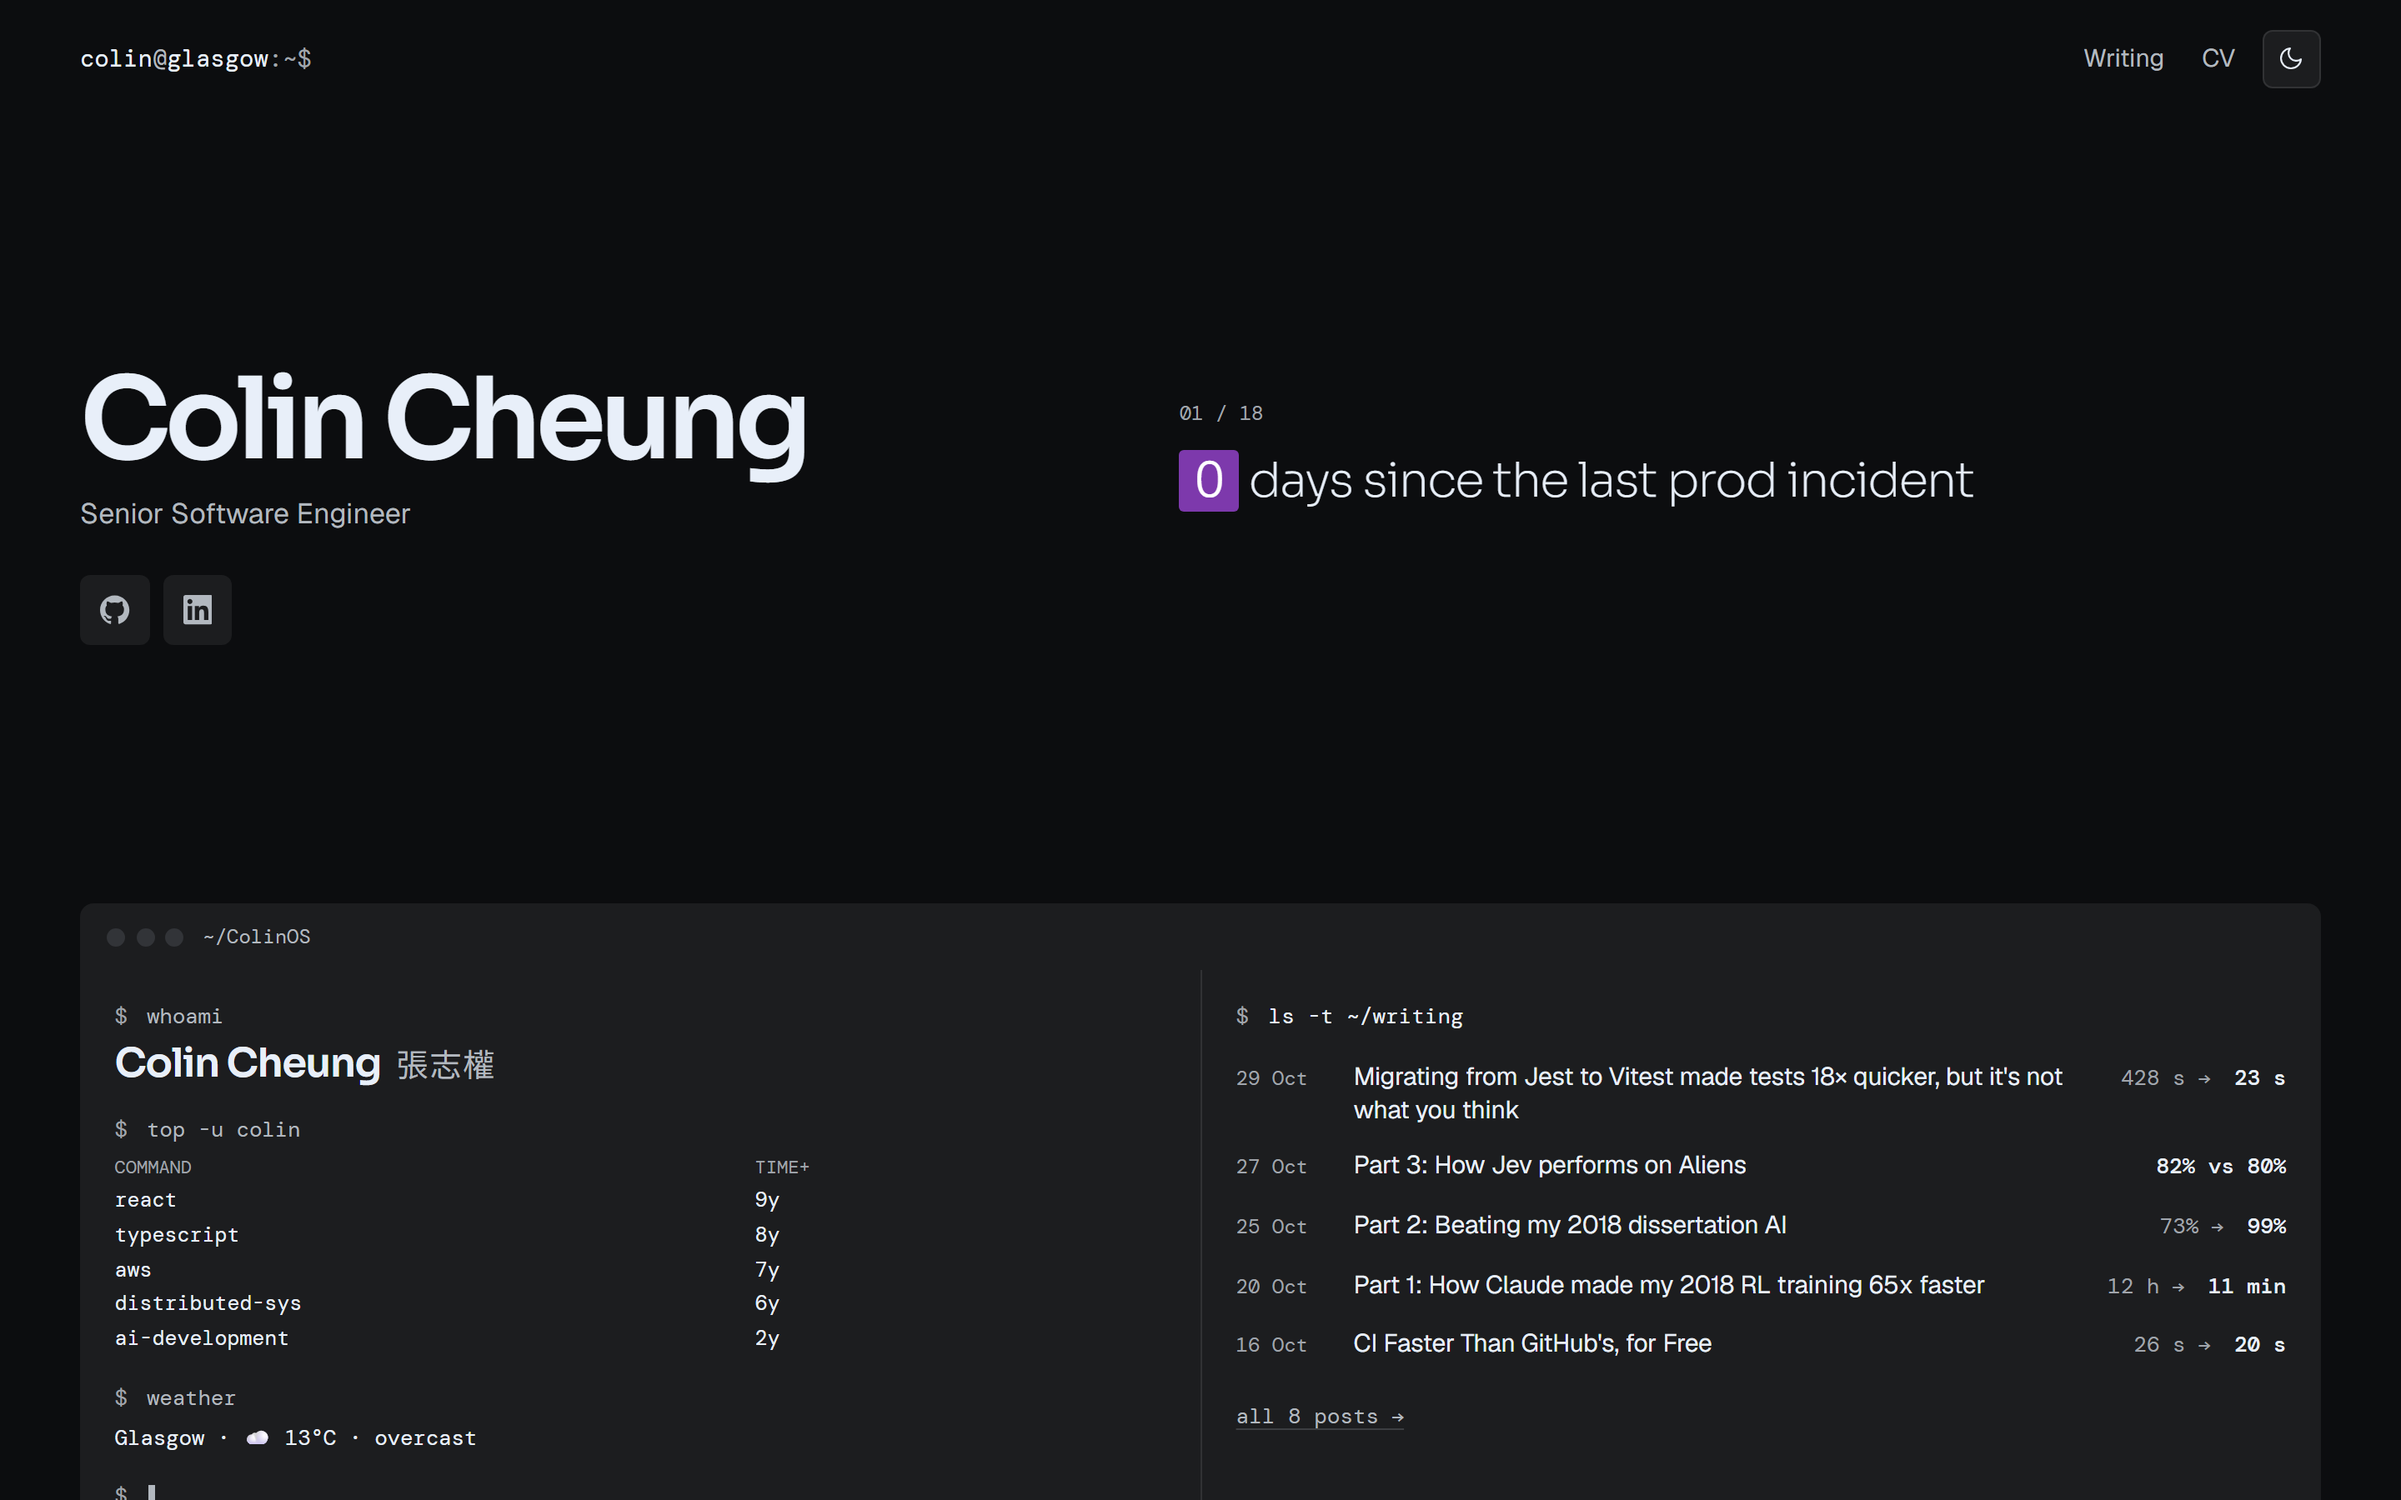
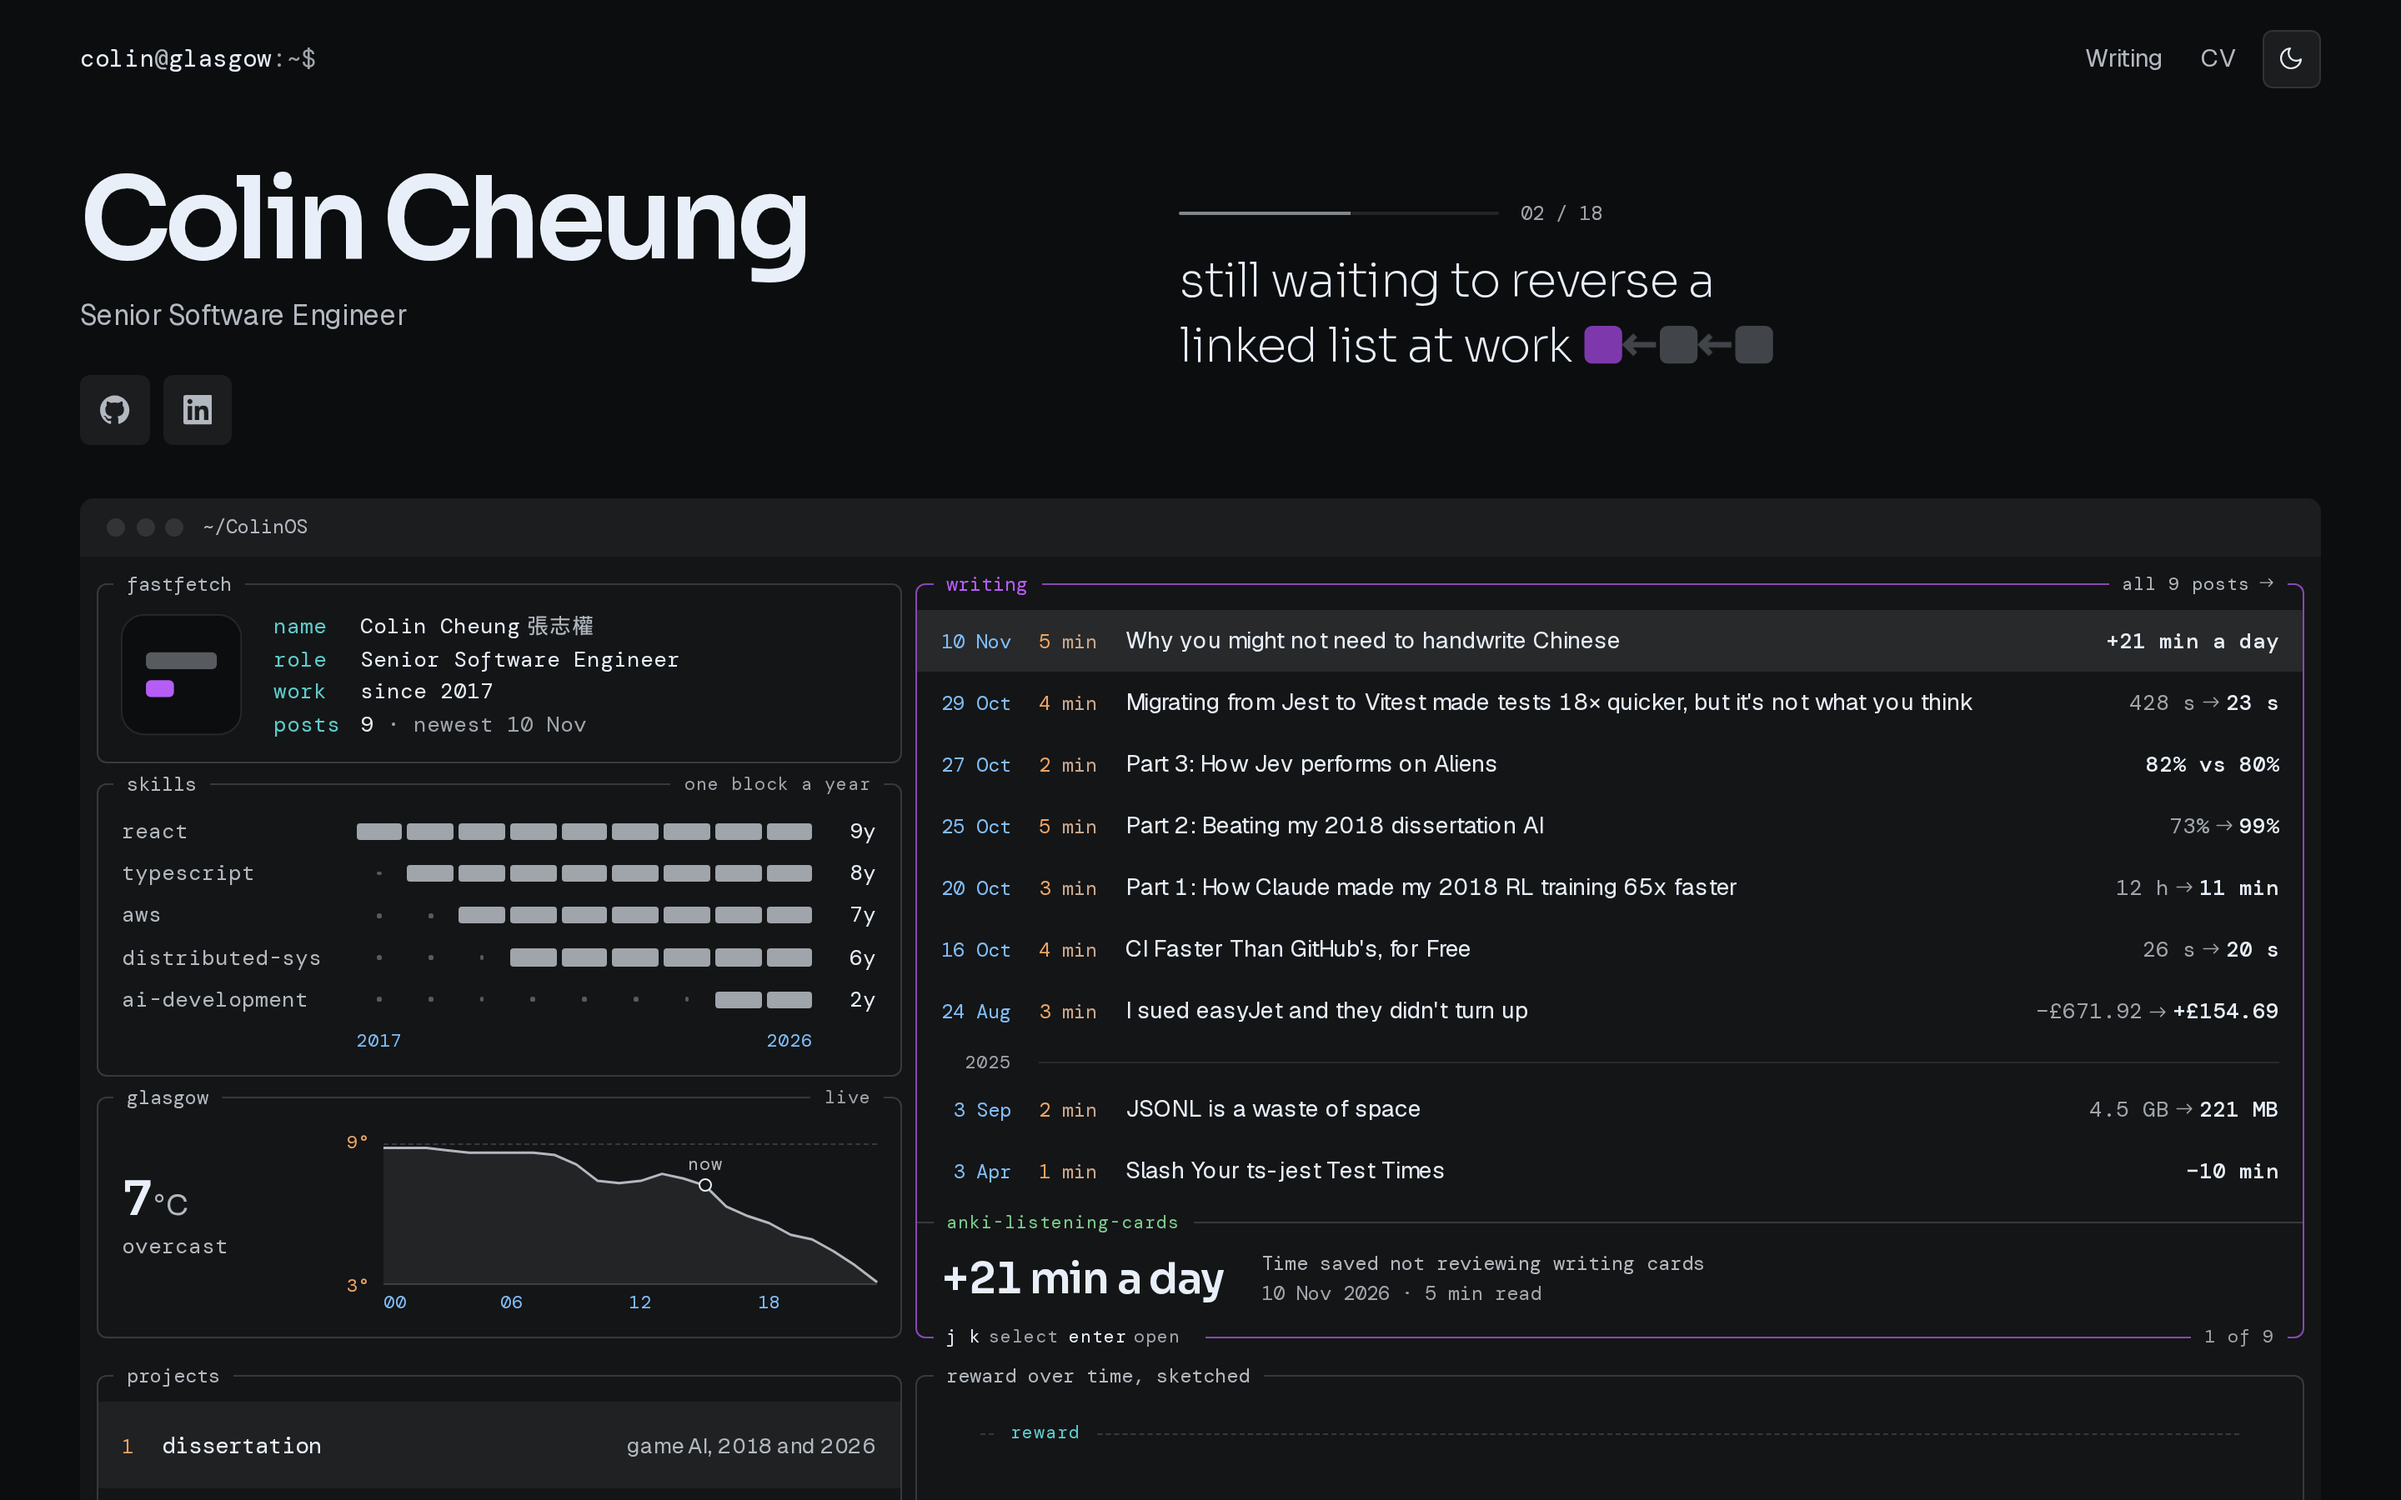
Cantonese tones 2 and 5 rise from where Wikipedia puts them; README shows the one-window home page

diff --git a/src/components/home/window/tones.ts b/src/components/home/window/tones.ts
@@ -28,12 +28,14 @@ const MANDARIN: Record<number, number[]> = {
   3: [2, 1, 4],
   4: [5, 1],
 };
+// Chao's tone letters as Wikipedia's "Cantonese phonology" gives them: 55,
+// 35, 33, 21, 13, 22 (checked 15 Nov 2026).
 const CANTONESE: Record<number, number[]> = {
   1: [5, 5],
-  2: [2, 5],
+  2: [3, 5],
   3: [3, 3],
   4: [2, 1],
-  5: [2, 3],
+  5: [1, 3],
   6: [2, 2],
 };
 

diff --git a/README.md b/README.md
@@ -14,7 +14,7 @@ Static, fast, and every post leads with the number it's about.
 
 <picture>
   <source media="(prefers-color-scheme: dark)" srcset="docs/readme-dark.png">
-  <img alt="The homepage: the name, a rotating one-liner, and a terminal with the latest posts" src="docs/readme-light.png" width="860">
+  <img alt="The homepage: the name, a rotating one-liner, and one terminal window with fastfetch, skills, Glasgow weather, the latest posts and the projects" src="docs/readme-light.png" width="860">
 </picture>
 
 </div>
